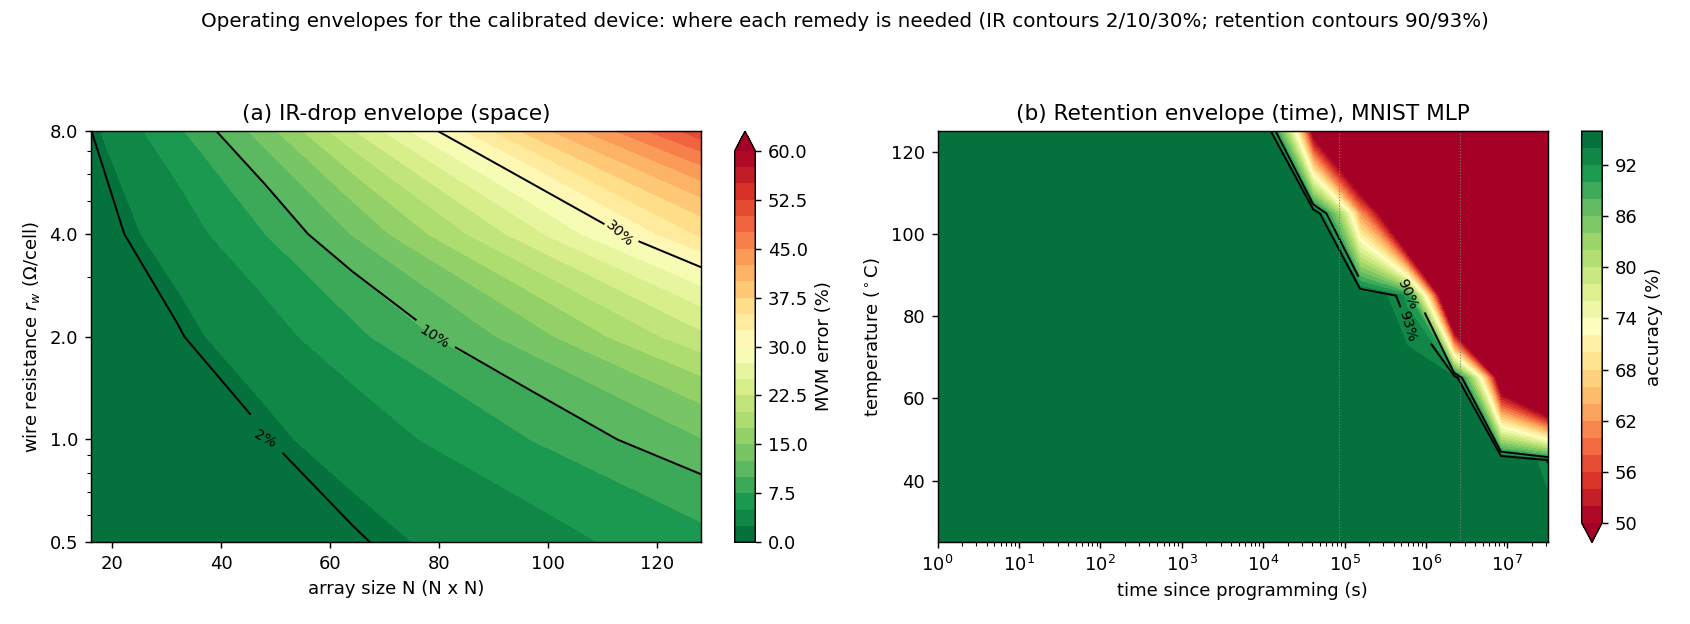
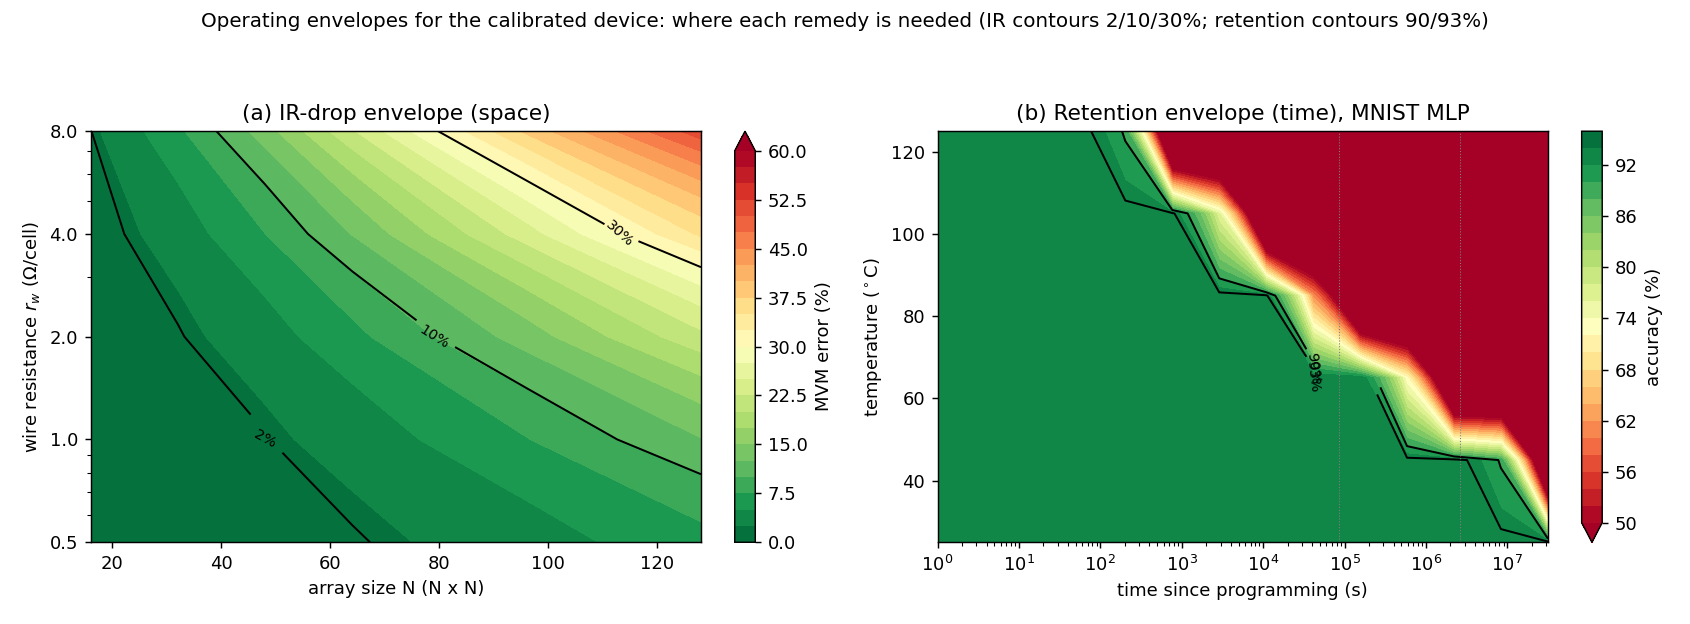
Fit device to Keshari et al. measured SI figures: Ea=1.45 eV from Arrhenius retention, 100 conductance states, 8x8 MNIST device-penalty validation

Changed region(s): [[0.6462, 0.2131, 0.9231, 0.883]]

diff --git a/paper.tex b/paper.tex
@@ -49,13 +49,15 @@ can largely absorb: a two-spiral network deployed naively under IR drop sits at
 63.5 percent and a cheap output calibration recovers only to 69.3 percent, but
 training with the IR-drop network in the forward pass recovers it to 92.4
 percent, whereas thermally activated retention drift, being time varying,
-degrades a trained network to chance within weeks at 85 degrees Celsius and
+degrades a trained network to chance over time at elevated temperature and
 cannot be trained away. Under this model the three non-idealities tend to
 separate by remedy: variability is correctable at write time, IR drop is
 absorbable by training (and not by output calibration alone), and retention is
-only deferrable by rewriting. Calibrated to the published device, our simulator reproduces its measured 96.08
-percent MNIST accuracy to within about one point (94.8 percent), and an
-established hardware-aware toolkit (AIHWKit) agrees (95.4 percent). We then chart
+only deferrable by rewriting. We fit the model to the measured figures in the device's supplementary material
+(its conductance window, 100 states, and an activation energy $E_a=1.45$ eV from
+its Arrhenius retention plot); on its 8x8 MNIST task the calibrated device adds
+only a 0.8-point accuracy penalty, matching an established hardware-aware toolkit
+(AIHWKit, 0.6 points) and the near-zero penalty the authors report. We then chart
 operating envelopes over array size, wire resistance, and temperature that
 delineate where each remedy is needed, and an energy model showing 18 to 41
 TOPS/W (versus about 4 for a digital baseline) bounded by the same IR-drop limit.
@@ -536,31 +538,42 @@ conclusions in a real device and against an accepted baseline, we now calibrate
 the model to a published cell, validate it, chart operating envelopes, and add an
 energy model.
 
-\textbf{Calibration to a published device.} We set the conductance window,
-precision, rectification, and variability of the model to the measured Ag\textsubscript{2}O
-self-rectifying 64x64 crossbar of Keshari et al. \cite{keshari2026}: a multilevel
-window of 3.6 to 22.3 $\mu$S, more than four bits (16 levels), a rectification
-ratio above $10^3$, and the negligible spatiotemporal variation they report. We
-map a 784-128-10 MLP onto this device with differential pairs, 4-bit
-quantization, and programming noise. Table \ref{tab:mnist} compares MNIST
-accuracy: our calibrated simulator reaches $94.8 \pm 0.6$ percent, within about
-one point of the measured 96.08 percent, and an established hardware-aware
-inference toolkit (AIHWKit \cite{rasch2023}) on the same network gives
-$95.4 \pm 0.2$ percent. The agreement validates the calibration and situates our
-model among accepted tools.
+\textbf{Calibration to the published measured curves.} Rather than assume device
+parameters, we fit them to the figures in the supplementary material of Keshari
+et al. \cite{keshari2026}. From their multilevel data we take the conductance
+window of 3.6 to 22.3 $\mu$S and the 100 distinct conductance states they report
+(about 6.6 bits per cell, 9855 signed values with a differential pair). From the
+LRS retention failure plot (their Fig. S5b) we digitize the Arrhenius points
+(roughly $4\times10^3$ s at 373 K and their stated ten-year retention at 298 K)
+and fit an activation energy $E_a = 1.45$ eV; this reproduces their ten-year
+room-temperature retention and implies retention of only hours at 85 degrees,
+markedly shorter than the illustrative $E_a=1.0$ eV used in Section
+\ref{sec:retention}. Their measured potentiation curves (Fig. S8) are nearly
+linear (nonlinearity $\alpha_p \approx 0.02$), consistent with the
+gradient-proportional update we use, and their cell distributions (Fig. S4) show
+the low variation we model. We map an MLP onto this device, following their setup
+(8x8-resized MNIST, 64 inputs), with 100-level quantization and programming
+noise. Table \ref{tab:mnist} compares accuracy: the device penalty in our
+simulator is $0.8$ points (software $94.3$ to $93.5 \pm 0.3$), close to the
+$0.6$-point penalty of an established hardware-aware toolkit (AIHWKit
+\cite{rasch2023}, $93.7 \pm 0.1$) and to the near-zero penalty Keshari et al.
+report (96.1 to 96.08). Our absolute software baseline is below theirs, a
+training and architecture difference, but the quantity the calibration validates,
+the small loss the device itself adds, agrees across all three.
 
 \begin{table}[t]
-\caption{MNIST (784-128-10 MLP) on the calibrated Ag\textsubscript{2}O device.}
+\caption{8x8 MNIST MLP on the calibrated Ag\textsubscript{2}O device; the
+validated quantity is the device penalty (software minus device).}
 \label{tab:mnist}
 \centering
-\begin{tabular}{lc}
+\begin{tabular}{lcc}
 \toprule
-Method & Accuracy (\%) \\
+Method & Accuracy (\%) & Device penalty \\
 \midrule
-Software (float) & 95.70 \\
-AIHWKit analog inference \cite{rasch2023} & $95.4 \pm 0.2$ \\
-Our calibrated simulator (4-bit + variability) & $94.8 \pm 0.6$ \\
-Keshari et al. 2026, measured \cite{keshari2026} & 96.08 \\
+Software (float, ours) & 94.30 & -- \\
+AIHWKit analog inference \cite{rasch2023} & $93.7 \pm 0.1$ & 0.6 \\
+Our calibrated simulator & $93.5 \pm 0.3$ & 0.8 \\
+Keshari et al. 2026, measured \cite{keshari2026} & 96.08 & 0.02 \\
 \bottomrule
 \end{tabular}
 \end{table}
@@ -573,7 +586,8 @@ program-verify and in-situ training (Sections \ref{sec:res-inf},
 \ref{sec:insitu}), and beyond it the array is IR-limited. Panel (b) is the
 retention envelope over time and temperature, evaluated on the trained MLP: the
 90 percent accuracy contour gives the rewrite cadence, which falls from years at
-room temperature to days at 85 degrees. Together the two envelopes are a
+room temperature to hours at 85 degrees (steep because the measured $E_a=1.45$ eV
+makes retention strongly temperature-dependent). Together the two envelopes are a
 predictive map: given a target accuracy, they bound the usable array size, wire
 resistance, and rewrite interval.
 
@@ -659,10 +673,11 @@ the calibration baseline (Section \ref{sec:insitu}) shows the recovery is not a
 trivial rescaling, but a measured or finite-difference gradient was not compared.
 The tasks (digits, two spirals, circles) are small enough to fit a single tile;
 we report a convolutional-layer fidelity rather than a full detector. We
-calibrate to the \emph{reported} parameters of a published device (conductance
-window, precision, rectification, variation) rather than fitting raw measured
-I-V and retention curves, and the energy model is a first-order estimate (read
-power plus a per-column ADC) without full peripheral, 1T1R, or interconnect
+calibrate by \emph{digitizing the published measured figures} of the device (the
+Arrhenius retention plot for $E_a$, the multilevel and cell-distribution plots,
+the potentiation curves); the authors release no raw per-point data files, so the
+fit carries figure-reading error, and the energy model is a first-order estimate
+(read power plus a per-column ADC) without full peripheral, 1T1R, or interconnect
 parasitics. None of the three underlying phenomena is itself novel; each is in
 the literature of Section \ref{sec:relwork}. The contribution is the calibrated,
 AIHWKit-baselined, seed-averaged study and the operating envelopes that make the
@@ -684,8 +699,8 @@ where each remedy is needed over array size, wire resistance, and temperature.
 None of the underlying phenomena is individually new; the value is the calibrated,
 baselined comparison and the predictive envelopes. Future work includes a 1T1R
 access-device model, measured or finite-difference in-situ gradients, broader
-retention-time distributions, fitting to raw measured device data, and larger
-networks.
+retention-time distributions, fitting to raw per-point data beyond the digitized
+figures, and larger networks.
 
 \section*{Acknowledgment}
 This work, including both the simulation experiments and the writing of this

diff --git a/aihwkit_baseline.py b/aihwkit_baseline.py
@@ -20,17 +20,20 @@ print("fetching MNIST ...", flush=True)
 mnist = fetch_openml("mnist_784", version=1, as_frame=False, parser="liac-arff")
 X = (mnist.data / 255.0).astype("float32")
 y = mnist.target.astype(int)
+# resize 28x28 -> 8x8 (bilinear), matching Keshari et al.'s MNIST setup (64 inputs)
+import torch.nn.functional as F
+X = F.interpolate(torch.tensor(X).reshape(-1, 1, 28, 28), size=(8, 8),
+                  mode="bilinear", align_corners=False).reshape(-1, 64).numpy()
 Xtr, Xte, ytr, yte = train_test_split(X, y, test_size=10000, random_state=0)
-Xtr, ytr = Xtr[:20000], ytr[:20000]          # subsample for speed
 Xte, yte = Xte[:2000], yte[:2000]
 
-# ---- float MLP 784-128-10 ----
-H = 128
-net = nn.Sequential(nn.Linear(784, H), nn.ReLU(), nn.Linear(H, 10))
+# ---- float MLP 64-256-10 (8x8 MNIST, matching the reference device study) ----
+H = 256
+net = nn.Sequential(nn.Linear(64, H), nn.ReLU(), nn.Linear(H, 10))
 opt = torch.optim.Adam(net.parameters(), 1e-3)
 lossf = nn.CrossEntropyLoss()
 Xtr_t, ytr_t = torch.tensor(Xtr), torch.tensor(ytr)
-for ep in range(8):
+for ep in range(25):
     perm = torch.randperm(len(Xtr_t))
     for i in range(0, len(Xtr_t), 128):
         b = perm[i:i + 128]
@@ -55,7 +58,7 @@ try:
 
     rpu = InferenceRPUConfig()                  # standard PCM-like inference model
     amodel = AnalogSequential(
-        AnalogLinear(784, H, bias=True, rpu_config=rpu), nn.ReLU(),
+        AnalogLinear(64, H, bias=True, rpu_config=rpu), nn.ReLU(),
         AnalogLinear(H, 10, bias=True, rpu_config=rpu))
     # load the float weights into the analog layers
     al = [m for m in amodel.modules() if isinstance(m, AnalogLinear)]

diff --git a/keshari_phase_energy.py b/keshari_phase_energy.py
@@ -16,11 +16,12 @@ from crossbar_advanced import CrossbarIR, VREAD, KB_EV
 
 # ---- device calibrated to Keshari et al. 2026 (Ag2O, self-rectifying) ----
 G_LO, G_HI = 3.6e-6, 22.3e-6     # multilevel conductance window at 373 K (S)
-N_LEVELS = 16                     # >4-bit multilevel
+N_LEVELS = 100                    # 100 distinct states (Keshari et al., Supp. Note 1)
+EA_MEAS = 1.45                    # activation energy fit to measured Arrhenius (Fig. S5b)
 RECT = 1.0e3                      # self-rectification ratio (>10^3)
 T_READ = 100e-9                   # read pulse width (s)
 E_ADC = 1.0e-12                   # per-column ADC conversion energy (J), SAR-class
-VAR_SIGMA = 0.05                  # programming variability (negligible spatiotemporal)
+VAR_SIGMA = 0.02                  # low programming variability (Fig. S4: negligible spatiotemporal)
 G_MEAN = 0.5 * (G_LO + G_HI)
 
 
@@ -68,9 +69,9 @@ def mnist_validation():
         return 100 * np.mean(accs), 100 * np.std(accs)
 
     m4, s4 = run(VAR_SIGMA)                  # 4-bit + variability
-    print("[MNIST] 784-128-10 MLP, our calibrated Ag2O simulator:")
+    print("[MNIST] 8x8 MNIST, 64-256-10 MLP, our calibrated Ag2O simulator:")
     print(f"  software (float)                 : {acc_sw*100:.2f}")
-    print(f"  our sim (4-bit window + var)     : {m4:.2f} +/- {s4:.2f}")
+    print(f"  our sim (100-level window + var) : {m4:.2f} +/- {s4:.2f}")
     print(f"  Keshari et al. 2026 (measured)   : 96.08  (reference baseline)")
 
 
@@ -112,7 +113,8 @@ def operating_envelopes():
           f"(rectification suppresses sneak/write, not read-time IR drop)")
 
     # ---- (b) retention envelope: time x temperature -> trained-MLP accuracy ----
-    Ea, tau0 = 1.0, 3.15e8 / np.exp(1.0 / (KB_EV * 298.15))
+    Ea = EA_MEAS                                     # measured (Fig. S5b)
+    tau0 = 3.15e8 / np.exp(Ea / (KB_EV * 298.15))    # anchored to 10-yr retention at 25 C
     temps = np.array([25, 45, 65, 85, 105, 125.])
     times = np.logspace(0, np.log10(3.15e7), 14)     # 1 s .. 1 yr
     accT = np.full((len(temps), len(times)), 50.0)